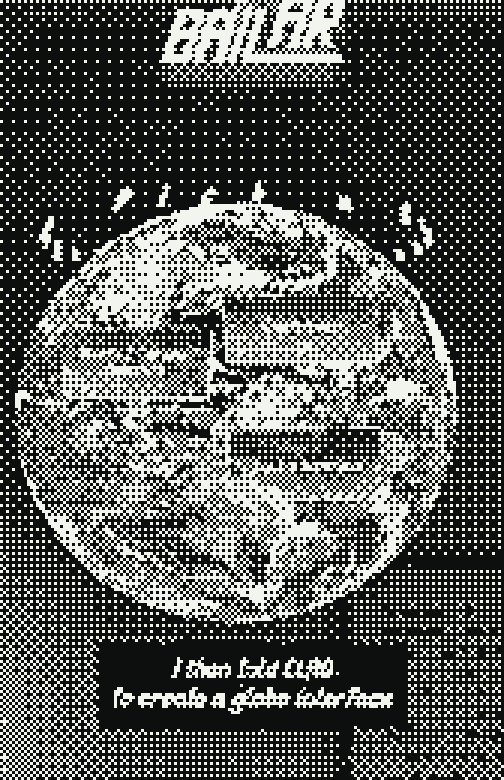
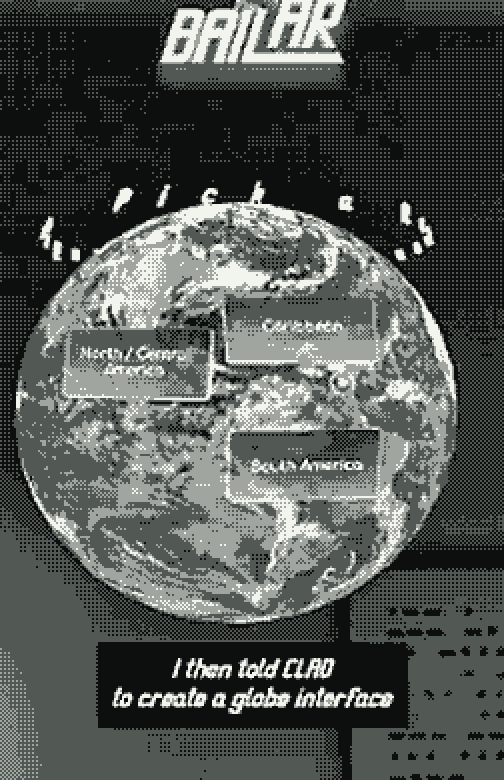
Project artwork: four grey tones at finer resolution for legibility
Claude-Session: https://claude.ai/code/session_011tPBAXL9S45m7bkyd274RR

diff --git a/my-immersive-projects/index.html b/my-immersive-projects/index.html
@@ -51,7 +51,7 @@
         <p class="row">
           <a class="btn" href="https://lenses.specs.com/lens/com.example.deepcontact2026?category=learn" rel="noopener">Open Deep Contact</a>
         <button type="button" class="expand" aria-expanded="false" aria-controls="art-deep-contact" hidden><span>Expand </span><span aria-hidden="true">+</span><span class="sr"> artwork for Deep Contact</span></button></p>
-          <div class="art" id="art-deep-contact" hidden><img src="../assets/art-deep-contact.png?v=2" width="504" height="504" loading="lazy" alt="Pixel-art rendering of the Deep Contact artwork"></div>
+          <div class="art" id="art-deep-contact" hidden><img src="../assets/art-deep-contact.png?v=3" width="504" height="504" loading="lazy" alt="Pixel-art rendering of the Deep Contact artwork"></div>
       </article>
     </section>
 
@@ -69,7 +69,7 @@
           <p>An augmented reality experience that helps people see the submerged Otter Rock Marine Reserve: its habitats and wildlife, and the reserve&rsquo;s boundaries and rules.</p>
           <p>Created by the Snap AR Scholars at the Oregon Reality Lab with the Oregon Department of Fish and Wildlife and the Friends of Otter Rock Marine Reserve.</p>
           <p class="more"><a href="https://news.uoregon.edu/students-chart-otter-rock-marine-reserve-augmented-reality" rel="noopener">Read the University of Oregon story</a> <a href="https://www.snapchat.com/unlock/?type=SNAPCODE&amp;uuid=27303645ee274f8faad1bec4f299bf0f&amp;metadata=01" rel="noopener">Open the lens</a><button type="button" class="expand" aria-expanded="false" aria-controls="art-otter-rock" hidden><span>Expand </span><span aria-hidden="true">+</span><span class="sr"> artwork for Otter Rock: Beneath the Surface</span></button></p>
-          <div class="art" id="art-otter-rock" hidden><img src="../assets/art-otter-rock.png" width="504" height="780" loading="lazy" alt="Pixel-art rendering of the Otter Rock: Beneath the Surface artwork"></div>
+          <div class="art" id="art-otter-rock" hidden><img src="../assets/art-otter-rock.png?v=3" width="504" height="780" loading="lazy" alt="Pixel-art rendering of the Otter Rock: Beneath the Surface artwork"></div>
         </article>
         <article class="card">
           <div class="head"><h3>Ko-Kwel: He Carries a Story</h3><span class="kind" title="Wearable AR"><svg viewBox="0 0 15 15" aria-hidden="true" shape-rendering="crispEdges"><path fill="currentColor" d="M0 4h15v1h-15zM0 5h7v1h-7zM8 5h7v1h-7zM1 6h5v1h-5zM9 6h5v1h-5zM1 7h5v1h-5zM9 7h5v1h-5zM2 8h3v1h-3zM10 8h3v1h-3z"/></svg><span class="sr">Wearable AR</span></span></div>
@@ -81,49 +81,49 @@
           <p>An augmented reality retelling of the Coquille Tribe&rsquo;s Sasquatch legend, shared by Jason Younker, past chief of the Coquille Indian Tribe, and built by the Snap AR Scholars.</p>
           <p>Hold still so Sasquatch does not see you, search for the obsidian blade, and learn his weakness.</p>
           <p class="more"><a href="https://xrbazaar.com/p/zyYoSEBmuGrPLAbYsOJ3Yg" rel="noopener">See it on XR Bazaar</a> <a href="https://journalism.uoregon.edu/news/ko-kwel-indigenous-storytelling-snap-ar" rel="noopener">Read the University of Oregon story</a><button type="button" class="expand" aria-expanded="false" aria-controls="art-ko-kwel" hidden><span>Expand </span><span aria-hidden="true">+</span><span class="sr"> artwork for Ko-Kwel: He Carries a Story</span></button></p>
-          <div class="art" id="art-ko-kwel" hidden><img src="../assets/art-ko-kwel.png" width="504" height="504" loading="lazy" alt="Pixel-art rendering of the Ko-Kwel: He Carries a Story artwork"></div>
+          <div class="art" id="art-ko-kwel" hidden><img src="../assets/art-ko-kwel.png?v=3" width="504" height="504" loading="lazy" alt="Pixel-art rendering of the Ko-Kwel: He Carries a Story artwork"></div>
         </article>
         <article class="card">
           <div class="head"><h3>Kick Game</h3><span class="kind" title="Wearable AR"><svg viewBox="0 0 15 15" aria-hidden="true" shape-rendering="crispEdges"><path fill="currentColor" d="M0 4h15v1h-15zM0 5h7v1h-7zM8 5h7v1h-7zM1 6h5v1h-5zM9 6h5v1h-5zM1 7h5v1h-5zM9 7h5v1h-5zM2 8h3v1h-3zM10 8h3v1h-3z"/></svg><span class="sr">Wearable AR</span></span></div>
           <p class="tags"><span>Augmented reality</span><span>Spectacles</span><span>2026</span></p>
           <p>An AR field goal simulator. Kick American football field goals in your real surroundings.</p>
           <p class="more"><a href="https://xrbazaar.com/p/kick_game" rel="noopener">See it on XR Bazaar</a><button type="button" class="expand" aria-expanded="false" aria-controls="art-kick-game" hidden><span>Expand </span><span aria-hidden="true">+</span><span class="sr"> artwork for Kick Game</span></button></p>
-          <div class="art" id="art-kick-game" hidden><img src="../assets/art-kick-game.png?v=2" width="504" height="672" loading="lazy" alt="Pixel-art rendering of the Kick Game artwork"></div>
+          <div class="art" id="art-kick-game" hidden><img src="../assets/art-kick-game.png?v=3" width="504" height="672" loading="lazy" alt="Pixel-art rendering of the Kick Game artwork"></div>
         </article>
         <article class="card">
           <div class="head"><h3>Bailar</h3><span class="kind" title="Wearable AR"><svg viewBox="0 0 15 15" aria-hidden="true" shape-rendering="crispEdges"><path fill="currentColor" d="M0 4h15v1h-15zM0 5h7v1h-7zM8 5h7v1h-7zM1 6h5v1h-5zM9 6h5v1h-5zM1 7h5v1h-5zM9 7h5v1h-5zM2 8h3v1h-3zM10 8h3v1h-3z"/></svg><span class="sr">Wearable AR</span></span></div>
           <p class="tags"><span>Augmented reality</span><span>Specs</span><span>2026</span></p>
           <p>An augmented reality lens built in Lens Studio for the upcoming Specs device.</p>
           <p class="more"><a href="https://xrbazaar.com/p/bailar" rel="noopener">See it on XR Bazaar</a><button type="button" class="expand" aria-expanded="false" aria-controls="art-bailar" hidden><span>Expand </span><span aria-hidden="true">+</span><span class="sr"> artwork for Bailar</span></button></p>
-          <div class="art" id="art-bailar" hidden><img src="../assets/art-bailar.png" width="504" height="780" loading="lazy" alt="Pixel-art rendering of the Bailar artwork"></div>
+          <div class="art" id="art-bailar" hidden><img src="../assets/art-bailar.png?v=3" width="504" height="780" loading="lazy" alt="Pixel-art rendering of the Bailar artwork"></div>
         </article>
         <article class="card">
           <div class="head"><h3>Coyote PDX</h3><span class="kind" title="Wearable AR"><svg viewBox="0 0 15 15" aria-hidden="true" shape-rendering="crispEdges"><path fill="currentColor" d="M0 4h15v1h-15zM0 5h7v1h-7zM8 5h7v1h-7zM1 6h5v1h-5zM9 6h5v1h-5zM1 7h5v1h-5zM9 7h5v1h-5zM2 8h3v1h-3zM10 8h3v1h-3z"/></svg><span class="sr">Wearable AR</span></span></div>
           <p class="tags"><span>Augmented reality</span><span>Spectacles</span></p>
           <p>A coyote coexistence tool, designed in collaboration with the Oregon Department of Fish and Wildlife and the Portland Urban Coyote Project.</p>
           <p class="more"><a href="https://www.spectacles.com/lens/374eab700dbb4d01b892581e23254c38?type=SNAPCODE&amp;metadata=01" rel="noopener">Open the lens</a><button type="button" class="expand" aria-expanded="false" aria-controls="art-coyote-pdx" hidden><span>Expand </span><span aria-hidden="true">+</span><span class="sr"> artwork for Coyote PDX</span></button></p>
-          <div class="art" id="art-coyote-pdx" hidden><img src="../assets/art-coyote-pdx.png" width="504" height="504" loading="lazy" alt="Pixel-art rendering of the Coyote PDX artwork"></div>
+          <div class="art" id="art-coyote-pdx" hidden><img src="../assets/art-coyote-pdx.png?v=3" width="504" height="504" loading="lazy" alt="Pixel-art rendering of the Coyote PDX artwork"></div>
         </article>
         <article class="card">
           <div class="head"><h3>Project SHELL</h3><span class="kind" title="Virtual reality"><svg viewBox="0 0 15 15" aria-hidden="true" shape-rendering="crispEdges"><path fill="currentColor" d="M2 3h11v1h-11zM1 4h13v1h-13zM0 5h15v1h-15zM0 6h3v1h-3zM5 6h5v1h-5zM12 6h3v1h-3zM0 7h2v1h-2zM6 7h3v1h-3zM13 7h2v1h-2zM0 8h2v1h-2zM6 8h3v1h-3zM13 8h2v1h-2zM0 9h3v1h-3zM5 9h5v1h-5zM12 9h3v1h-3zM0 10h15v1h-15zM1 11h6v1h-6zM8 11h6v1h-6zM2 12h4v1h-4zM9 12h4v1h-4z"/></svg><span class="sr">Virtual reality</span></span></div>
           <p class="tags"><span>Virtual reality</span><span>Meta Quest</span></p>
           <p>Simulating Habitat Experiences of Living Loggerheads: a virtual reality experience supported by The Sea Turtle Conservancy.</p>
           <p class="more"><a href="https://sidequestvr.com/app/34888/project-shell-2024" rel="noopener">Get it on SideQuest</a><button type="button" class="expand" aria-expanded="false" aria-controls="art-project-shell" hidden><span>Expand </span><span aria-hidden="true">+</span><span class="sr"> artwork for Project SHELL</span></button></p>
-          <div class="art" id="art-project-shell" hidden><img src="../assets/art-project-shell.png" width="504" height="504" loading="lazy" alt="Pixel-art rendering of the Project SHELL artwork"></div>
+          <div class="art" id="art-project-shell" hidden><img src="../assets/art-project-shell.png?v=3" width="504" height="504" loading="lazy" alt="Pixel-art rendering of the Project SHELL artwork"></div>
         </article>
         <article class="card">
           <div class="head"><h3>Virtual Excursions for Science Learning</h3><span class="kind" title="Virtual reality"><svg viewBox="0 0 15 15" aria-hidden="true" shape-rendering="crispEdges"><path fill="currentColor" d="M2 3h11v1h-11zM1 4h13v1h-13zM0 5h15v1h-15zM0 6h3v1h-3zM5 6h5v1h-5zM12 6h3v1h-3zM0 7h2v1h-2zM6 7h3v1h-3zM13 7h2v1h-2zM0 8h2v1h-2zM6 8h3v1h-3zM13 8h2v1h-2zM0 9h3v1h-3zM5 9h5v1h-5zM12 9h3v1h-3zM0 10h15v1h-15zM1 11h6v1h-6zM8 11h6v1h-6zM2 12h4v1h-4zM9 12h4v1h-4z"/></svg><span class="sr">Virtual reality</span></span></div>
           <p class="tags"><span>Virtual world</span><span>HTC VIVERSE</span></p>
           <p>Virtual field trips for science learning.</p>
           <p class="more"><a href="https://worlds.viverse.com/zh-TW/Gynja5v" rel="noopener">Enter the world</a><button type="button" class="expand" aria-expanded="false" aria-controls="art-vesl" hidden><span>Expand </span><span aria-hidden="true">+</span><span class="sr"> artwork for Virtual Excursions for Science Learning</span></button></p>
-          <div class="art" id="art-vesl" hidden><img src="../assets/art-vesl.png" width="504" height="783" loading="lazy" alt="Pixel-art rendering of the Virtual Excursions for Science Learning artwork"></div>
+          <div class="art" id="art-vesl" hidden><img src="../assets/art-vesl.png?v=3" width="504" height="784" loading="lazy" alt="Pixel-art rendering of the Virtual Excursions for Science Learning artwork"></div>
         </article>
         <article class="card">
           <div class="head"><h3>Hope for Haiti: A Portal to Positive Impacts</h3><span class="kind" title="Mobile AR"><svg viewBox="0 0 15 15" aria-hidden="true" shape-rendering="crispEdges"><path fill="currentColor" d="M4 1h7v1h-7zM4 2h1v1h-1zM10 2h1v1h-1zM4 3h1v1h-1zM10 3h1v1h-1zM4 4h1v1h-1zM10 4h1v1h-1zM4 5h1v1h-1zM10 5h1v1h-1zM4 6h1v1h-1zM10 6h1v1h-1zM4 7h1v1h-1zM10 7h1v1h-1zM4 8h1v1h-1zM10 8h1v1h-1zM4 9h1v1h-1zM10 9h1v1h-1zM4 10h7v1h-7zM4 11h3v1h-3zM8 11h3v1h-3zM4 12h7v1h-7z"/></svg><span class="sr">Mobile AR</span></span></div>
           <p class="tags"><span>Augmented reality</span><span>Snapchat</span></p>
           <p>A Snapchat lens made with Hope for Haiti.</p>
           <p class="more"><a href="https://www.snapchat.com/lens/186150607753481fa7a94d6566223e69?type=SNAPCODE&amp;metadata=01" rel="noopener">Open the lens</a><button type="button" class="expand" aria-expanded="false" aria-controls="art-hope-for-haiti" hidden><span>Expand </span><span aria-hidden="true">+</span><span class="sr"> artwork for Hope for Haiti: A Portal to Positive Impacts</span></button></p>
-          <div class="art" id="art-hope-for-haiti" hidden><img src="../assets/art-hope-for-haiti.png" width="504" height="783" loading="lazy" alt="Pixel-art rendering of the Hope for Haiti: A Portal to Positive Impacts artwork"></div>
+          <div class="art" id="art-hope-for-haiti" hidden><img src="../assets/art-hope-for-haiti.png?v=3" width="504" height="784" loading="lazy" alt="Pixel-art rendering of the Hope for Haiti: A Portal to Positive Impacts artwork"></div>
         </article>
       </div>
     </section>
